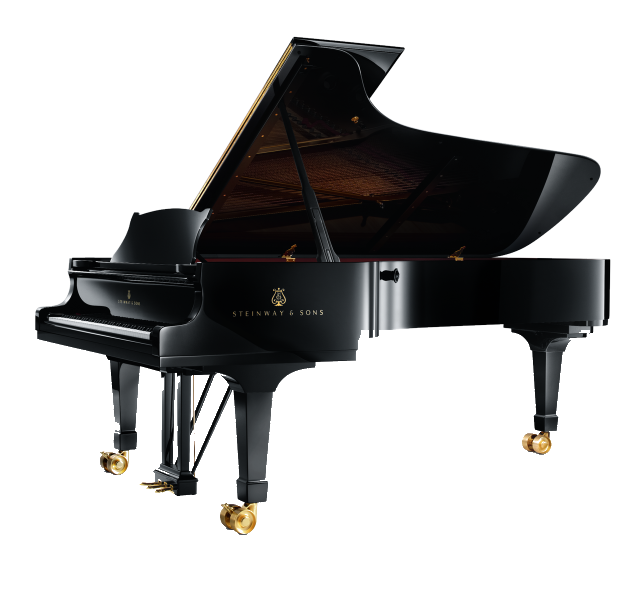
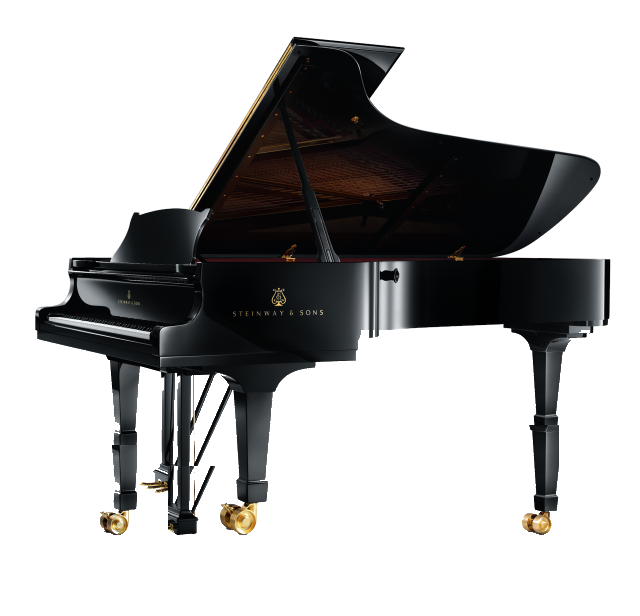
Klaver: kõik neli jalga maas — lühemad jalad pikendatud pildis, kastrid ühel joonel

Changed region(s): [[0.8125, 0.6786, 0.875, 0.8636], [0.25, 0.7403, 0.3438, 0.8945], [0.1562, 0.7094, 0.2188, 0.8636]]

diff --git a/index.html b/index.html
@@ -741,8 +741,8 @@ body[data-riist=prillid] .wrap{cursor:zoom-in}
 @keyframes kleitHõõg{0%,100%{opacity:.35}50%{opacity:1}}
 @keyframes kleitLäige{0%,64%{translate:0 0;opacity:0}74%{opacity:.95}100%{translate:250% 0;opacity:0}}
 /* --- klaverinurk --- */
-.tub-klaver{position:absolute;left:16px;bottom:-12px;width:448px;z-index:6;cursor:pointer}
-.tiib--r .tub-klaver{left:40px;bottom:-12px}
+.tub-klaver{position:absolute;left:16px;bottom:32px;width:448px;z-index:6;cursor:pointer}
+.tiib--r .tub-klaver{left:40px;bottom:32px}
 .tub-klaver__pilt{display:block;width:100%;height:auto;filter:drop-shadow(0 20px 16px rgba(0,0,0,.6)) saturate(.9) brightness(.97)}
 .tub-klaver__klahvid{position:absolute;left:6.1%;top:46.5%;width:17.6%;height:9.5%;border-radius:2px;background:radial-gradient(ellipse at 50% 55%,rgba(255,236,180,.9),rgba(255,205,110,.16) 72%);opacity:0;transition:opacity .22s;pointer-events:none;mix-blend-mode:screen}
 .tub-klaver:hover .tub-klaver__klahvid,.tub-klaver:focus-visible .tub-klaver__klahvid{opacity:.9}
@@ -1075,7 +1075,7 @@ body{background:#120905;overflow:hidden}
     <div class="tiib tiib--r">
         <div class="tub-vaip" aria-hidden="true"></div>
         <div class="tub-klaver" id="klaver" role="button" tabindex="0" aria-label="Tiibklaver — klõpsa, et klahve mängida">
-     <img class="tub-klaver__pilt" src="pildid/tuba/klaver.png?v=3" alt="Must tiibklaver, kaas lahti" width="640" height="616" loading="lazy">
+     <img class="tub-klaver__pilt" src="pildid/tuba/klaver.png?v=4" alt="Must tiibklaver, kaas lahti" width="640" height="616" loading="lazy">
      <span class="tub-klaver__klahvid" aria-hidden="true"></span>
     </div>
      <div class="tub-raam" role="img" aria-label="Kullatud raamis vana turuvaade"><img src="pildid/sein/maal-turg.jpg" alt="Vana turuvaade kullatud raamis" width="420" height="300" loading="lazy"><span>Turuplats · 1908</span></div>
